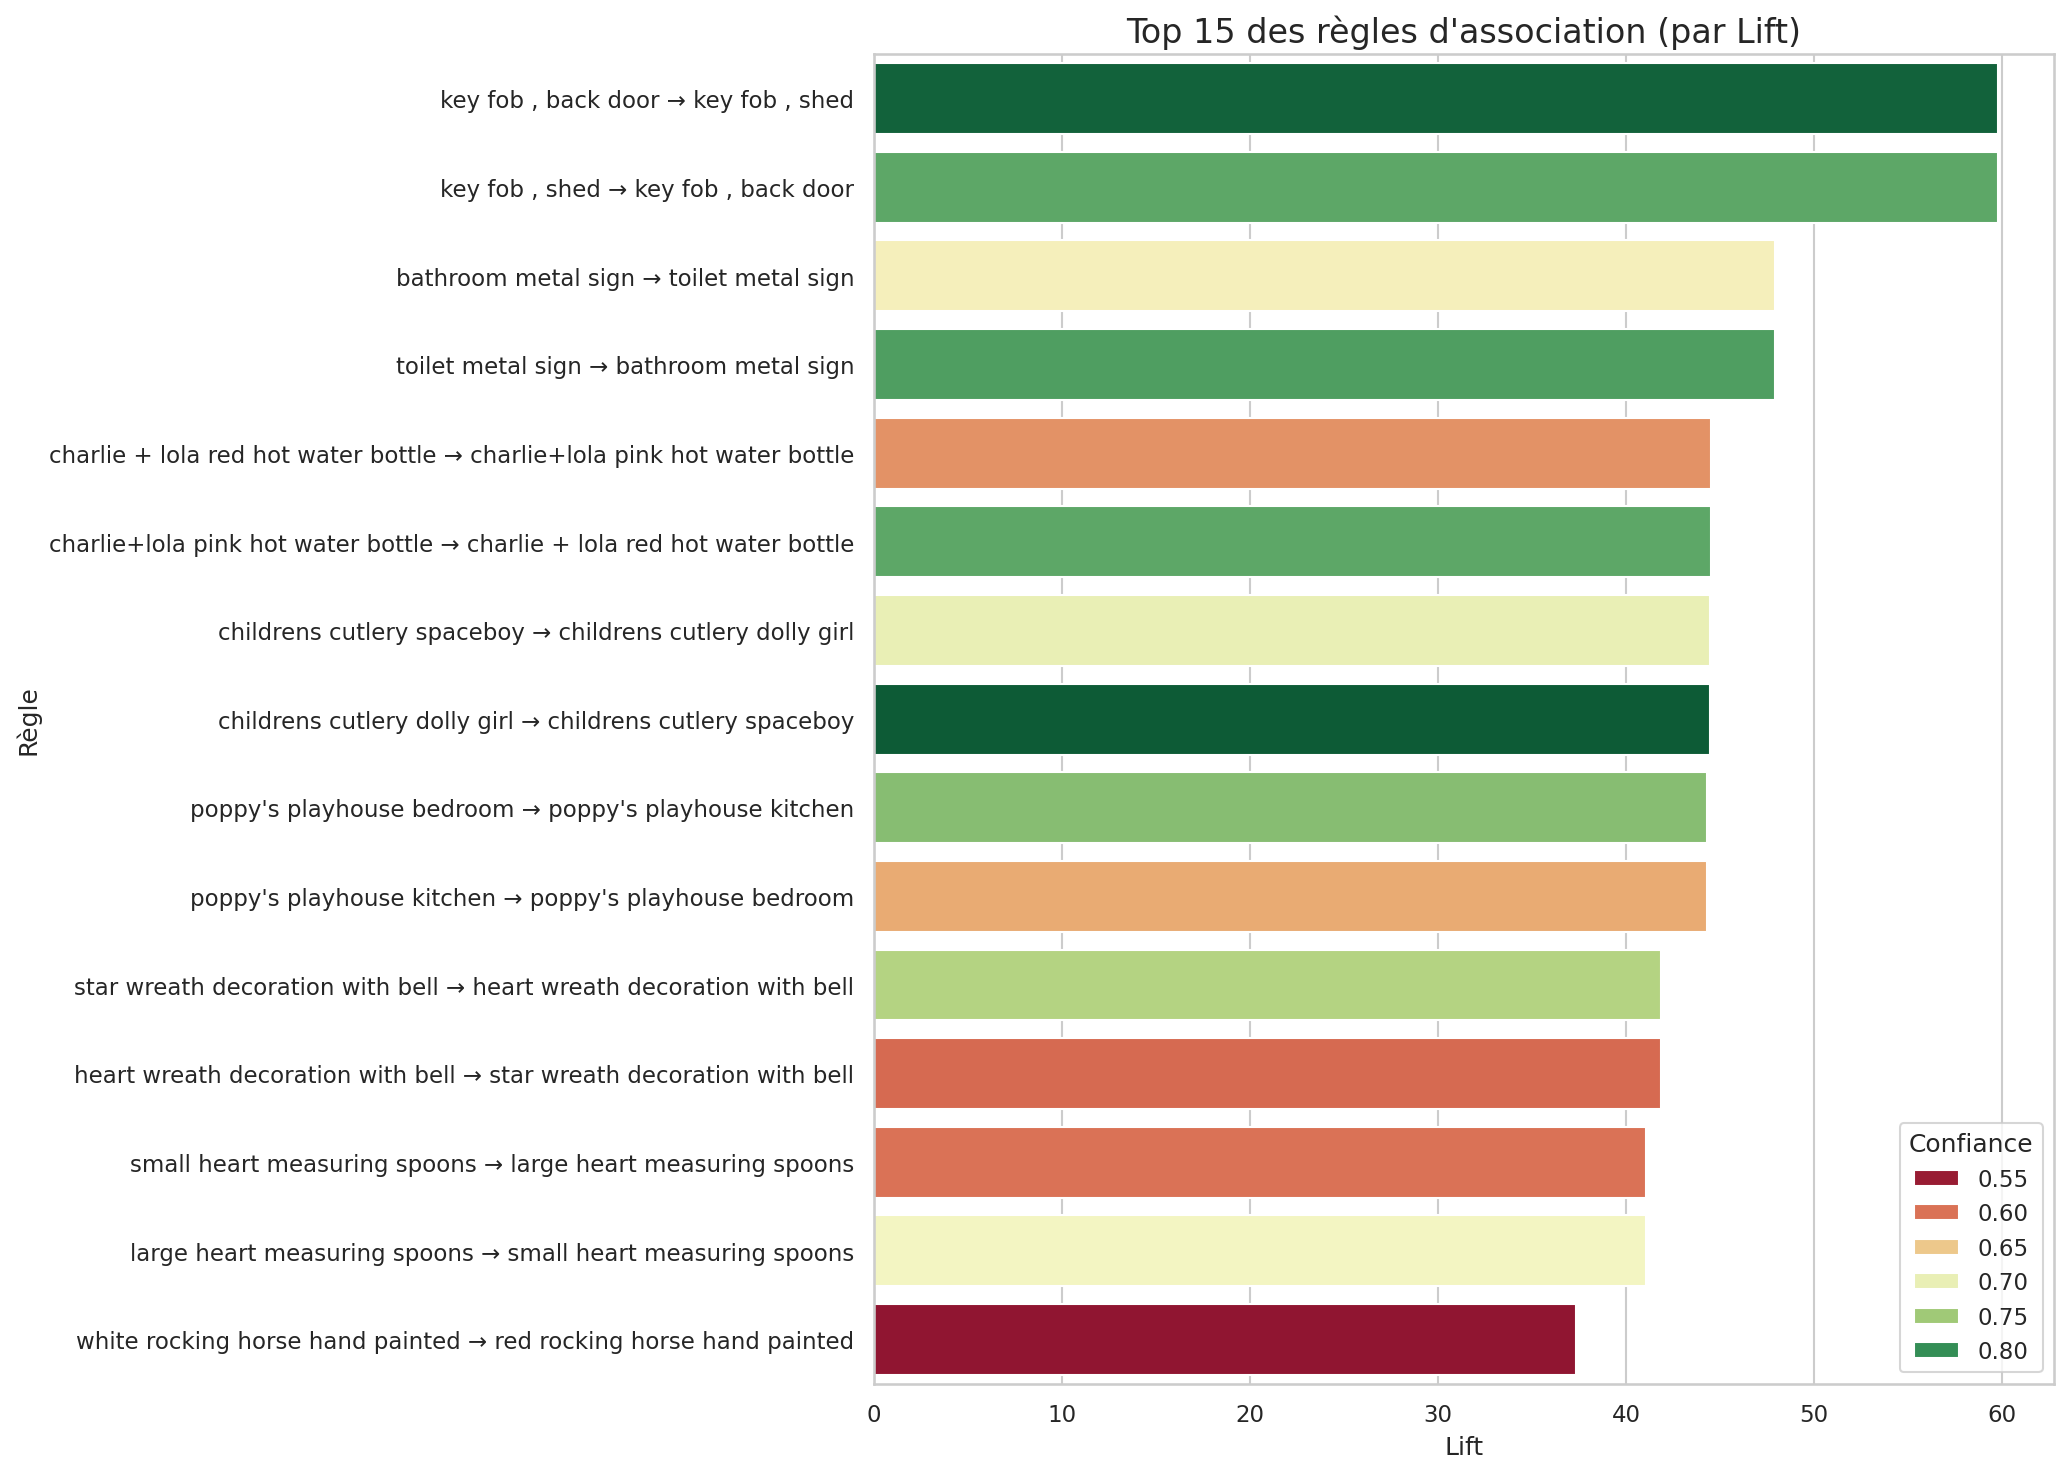
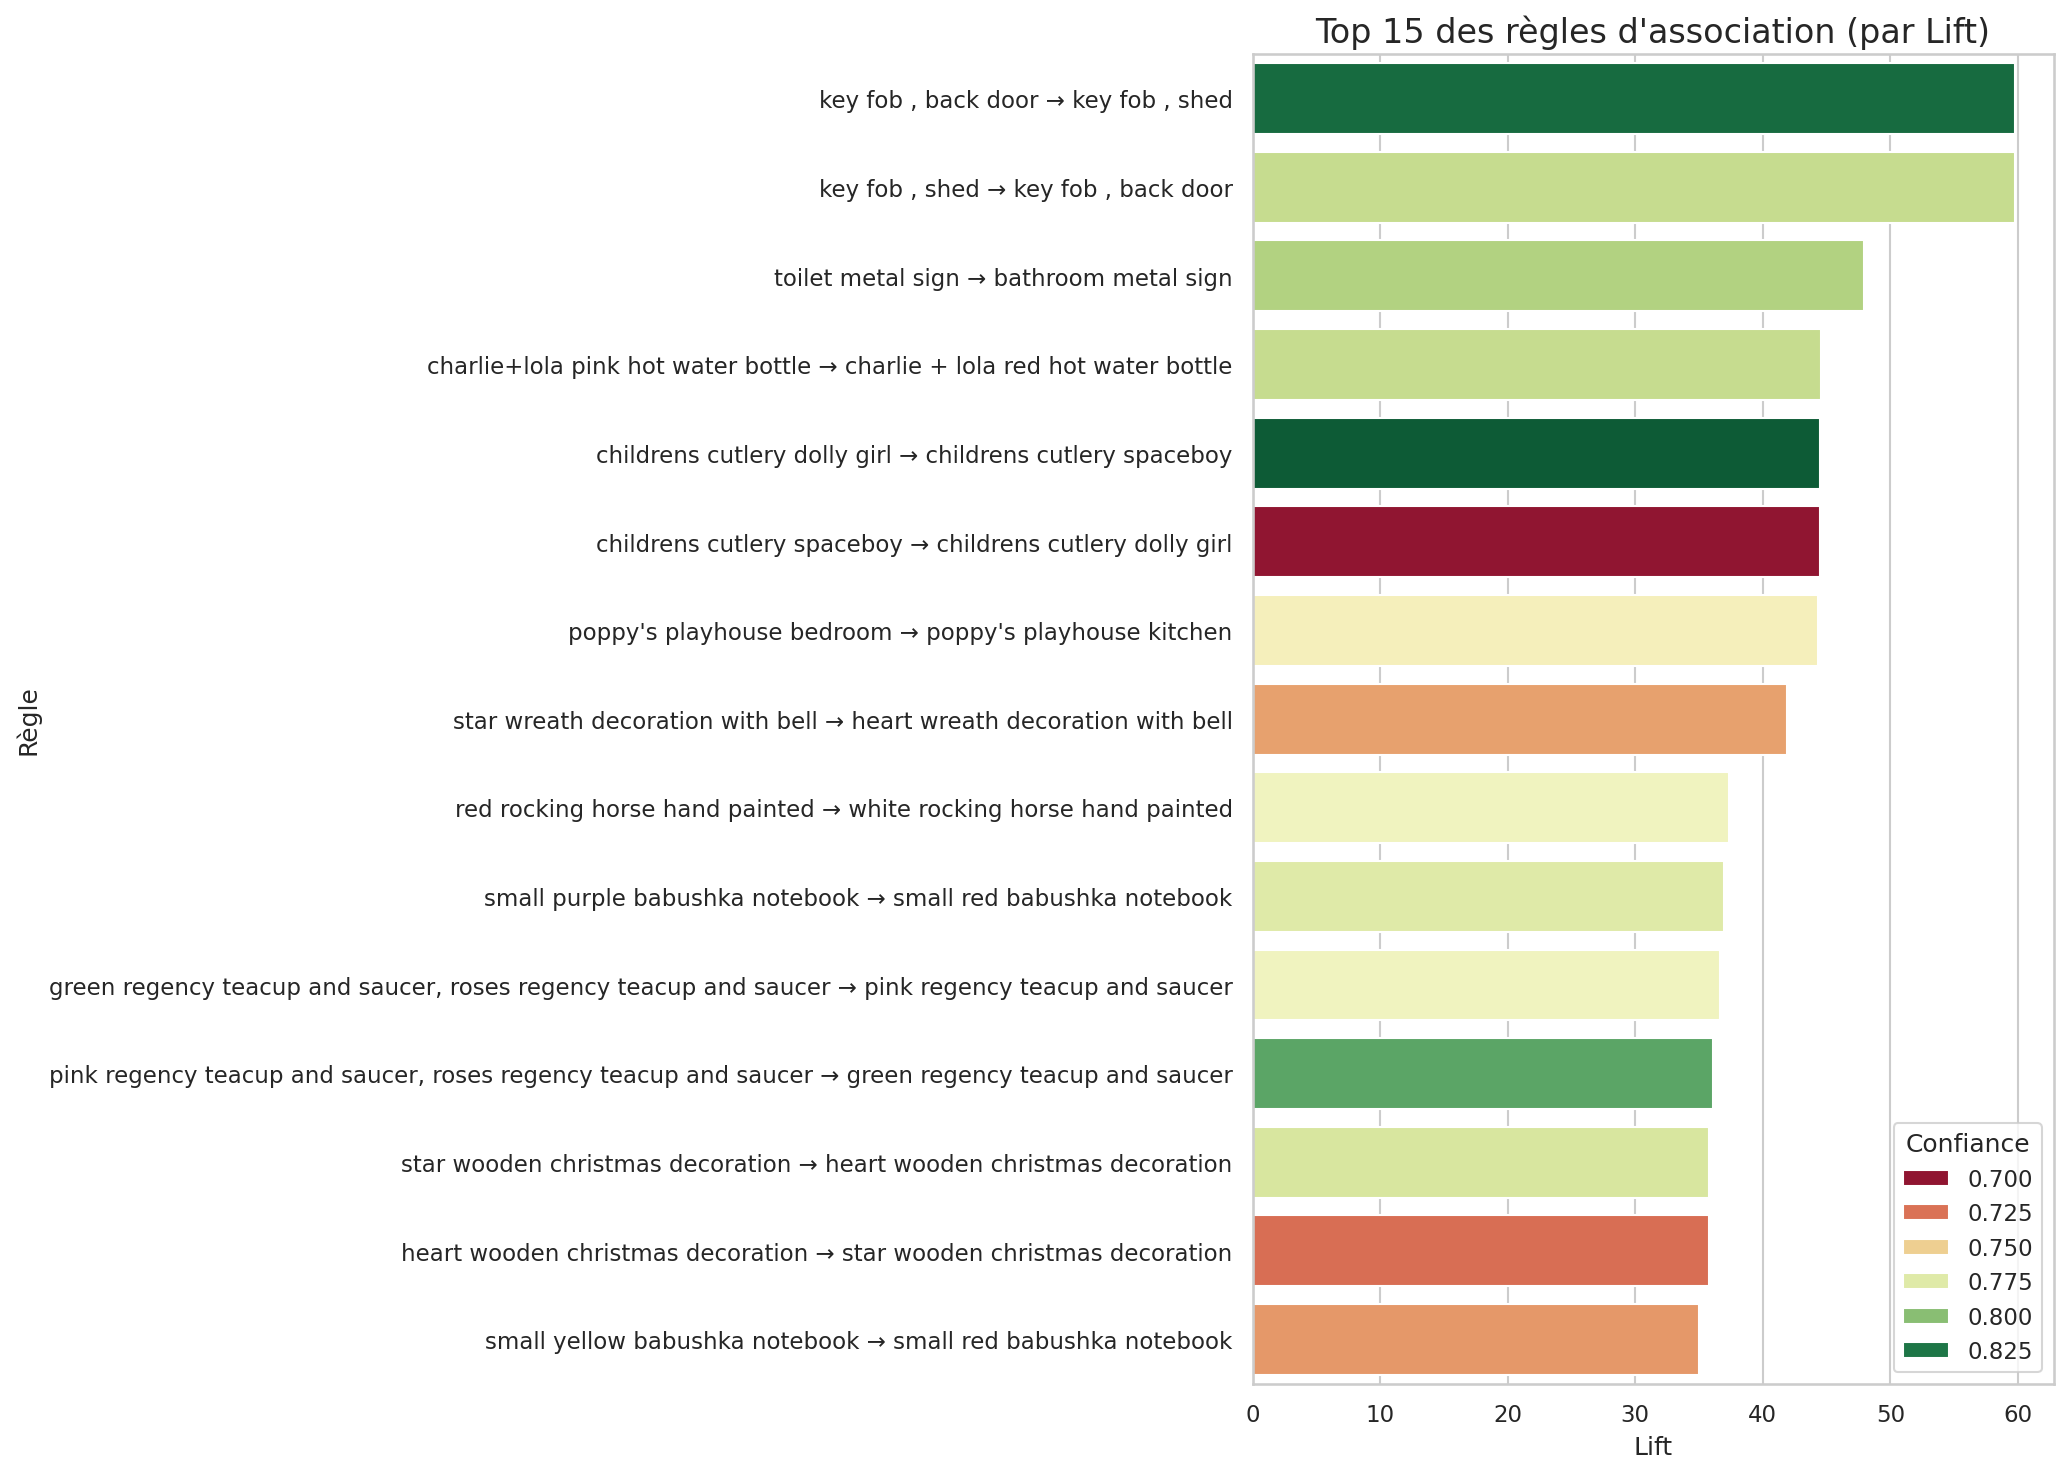
final

diff --git a/analyser_paniers.py b/analyser_paniers.py
@@ -245,12 +245,12 @@ if __name__ == "__main__":
             df_periode = df_filtered[df_filtered["date"] >= periode_avant].copy()
             print(f"{df_periode.shape[0]} paniers pour MLxtend")
 
-            # support 1%, k=3, confiance 50% (valeurs plus souples)
+            # support 1%, k=3, confiance 70%
             analyze_association_rules(
                 df_periode,
                 min_support=0.01,
                 max_k=3,
-                min_confidence=0.5
+                min_confidence=0.7
             )
         print("\nFIN")
     else:
